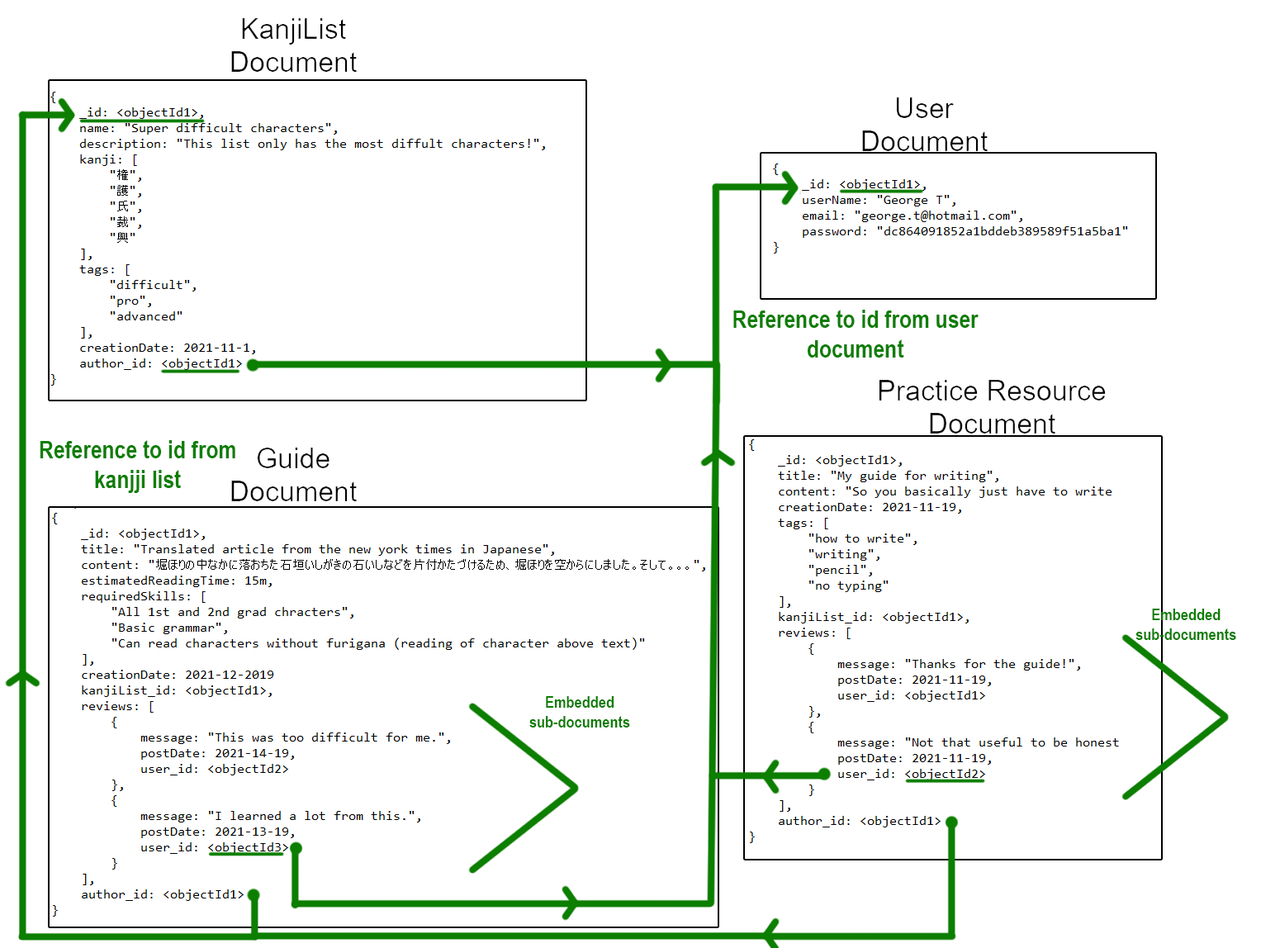
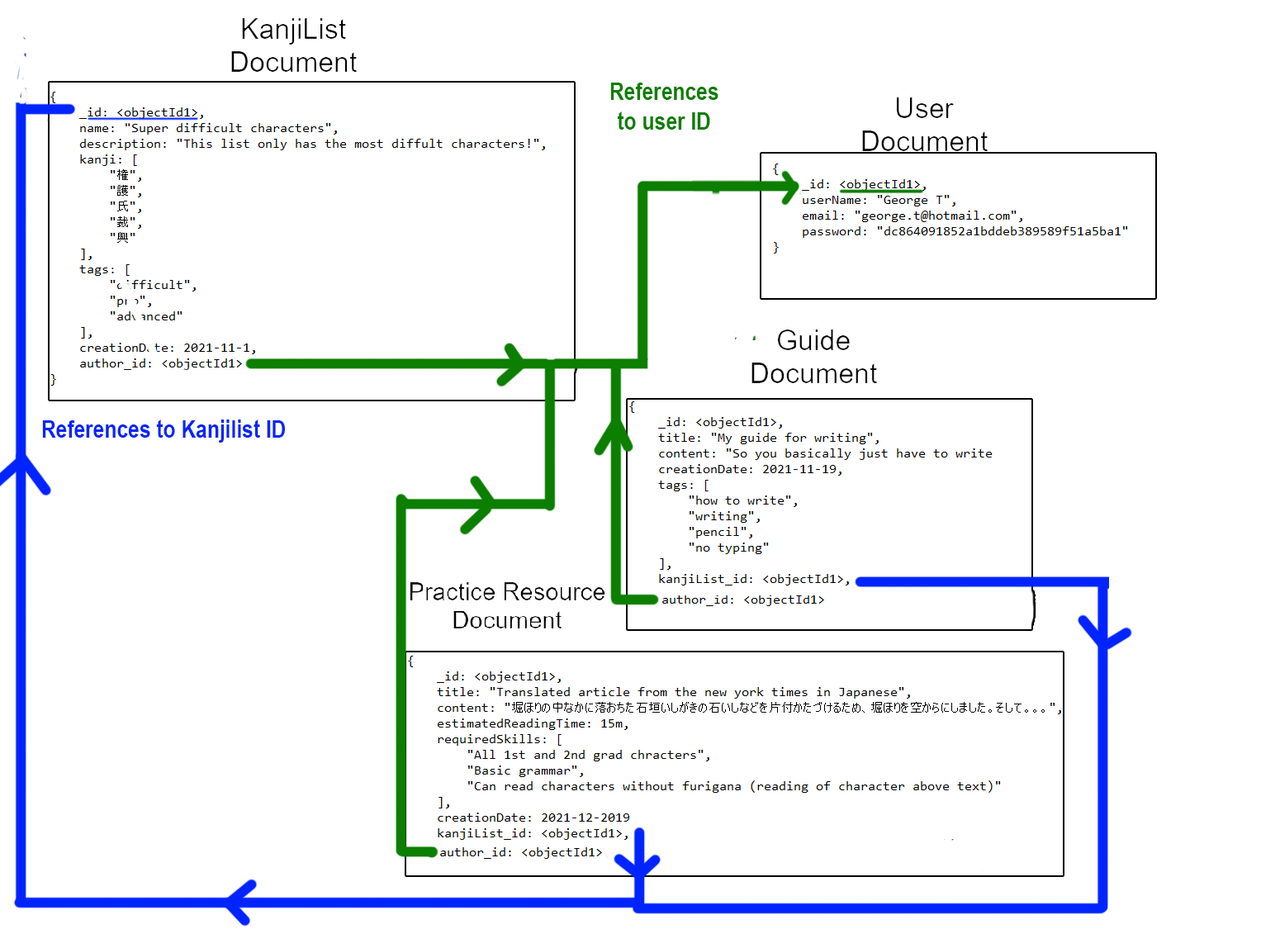
cleanup

diff --git a/src/app/services/guide.service.ts b/src/app/services/guide.service.ts
@@ -7,209 +7,9 @@ import { Guide } from '../models/guide'
   providedIn: 'root'
 })
 export class GuideService {
-  private guides: Guide[]
   baseUrl: string = 'https://mykanjilist-backend.herokuapp.com/api'
   constructor(private http: HttpClient) {
-    this.guides = [
-      {
-        id: 1,
-        title: 'How to learn kanji',
-        content: "var text = @\"" +
-          "I spent the first year of my Japanese studies lackadaisically studying kanji the way that everyone told me to study kanji: write each character a zillion times until it sticks in your brain. And, yeah, that was a huge disaster. So, after a year of studying, I knew a pretty solid smattering of Japanese, but I only knew about 500 kanji, despite having studied the kanji a lot." +
-          "" +
-          "You might be thinking that 500 kanji is a pretty solid amount, but with kanji it’s kind of an all-or-nothing deal. Either you know them or you don’t. Knowing only the most common kanji is certainly better than nothing, but if you can’t read all the common-use characters, you’re still illiterate. And being illiterate sucks." +
-          "" +
-          "After that year of studying Japanese without knowing the kanji, I quit studying Japanese completely. I didn’t study Japanese at all for about a year after that. I left Japan and just resigned myself to failure. I thought I can’t do this. It’s not possible for me." +
-          "" +
-          "Then, about a year after that, I decided to try studying with a new system. Basically, I used a very rudimentary version of the system that I will walk you through in this book. It wasn’t nearly as fine-tuned at that time, but I still managed to get drastically different results." +
-          "" +
-          "I started over, and I learned all 2,136 of the Jōyō Kanji in about 90 days. Not bad, right? But let’s round up and say 100 days." +
-          "" +
-          "100 days." +
-          "" +
-          "It’s hard to put time into perspective when studying a language. I think that maybe this is why so many of us get discouraged and quit studying somewhere along the line. We expect to learn everything overnight. When we google “how to learn Japanese” or “how to learn kanji” or “how to master Spanish,” we always add words like fast, easily, in 3 months, whatever. I called my last e-book “How to Learn Japanese in 1 Year.” But the thing is, time frames are absolutely meaningless. And I think that searching for accelerated methods for learning languages, though potentially beneficial, is often nothing more than a lack of commitment." +
-          "" +
-          "I mean, I get it. I’m human, too. I love instant gratification. Modern-day society has conditioned me to expect it everywhere I go. But there is so much more satisfaction in achieving something that you really have to work for. And I think that that’s the type of mindset that is conducive to making great achievements—not just in language-learning, but in life in general. Yes, we should take the fastest route to our destination. However, the fastest route may still take quite a long time, and that’s okay." +
-          "" +
-          "What I’m trying to say is that 100 days is both a very long time and a very short time." +
-          "" +
-          "100 days is a long time, because we’re talking about 100 days in a row. Stop and actually think about where you were about 3 months ago. Between then and now, how many times did you go to work? How many times did you talk on the phone? How many minutes or hours did you spend watching TV shows, playing video games, reading books, looking at Facebook, hanging out with your friends? How often did you feel tired? How often did you feel like you really, really, really didn’t want to go to work? Because we are talking about studying the kanji for at least one hour every single one of those days. That’s a long time!" +
-          "" +
-          "On the other hand, if you take a step back, 100 days is nothing. I started studying Japanese over 1,000 days ago. If I had spent my first 100 days learning all of the kanji in the method described in this book, then I would be much better at the language today. If I had followed all of the advice in this guide, I would be able to destroy my current level of Japanese. Looking back, I see so much wasted effort. So much wasted time. But, whatever. Live and learn… and share what you’ve learned, yeah?" +
-          "" +
-          "So in my guide we’re shooting for about 100 days. Specifically, we’re going to try to learn all of the 2,136 Joyo Kanji in 97 days. However, you don’t need to strictly follow the schedules and advice in this guide. Go at your own pace. Decide what you like, what works for you. There are people that like to take the approach that I took: a painful 100-day intensive kanji study session. But if that doesn’t work for you, then don’t do it." +
-          "" +
-          "Do 10 new kanji a day and learn all of them in about 210 days or so." +
-          "" +
-          "Or do 5 new kanji a day and learn them in 420 days. That’s only a little bit over a year. And 5 characters per day isn’t too stressful. And if you miss a few days studying new kanji, it’s not a big deal (because the study system allows for that)." +
-          "" +
-          "Maybe you’re thinking, over 400 days?! Forget it! I know that feeling. The thing is, though, that time is going to pass. 400 days will come and go, and at the end of them, you will either (A) know the kanji, or (B) not know the kanji. There is no gray area here. It is that simple. A or B. Your choice." +
-          "\";",
-        tags: ['girls', 'reading', 'names'],
-        creationDate: new Date("2020-01-16"),
-      },
-      {
-        id: 2,
-        title: 'How to learn girl characters for names',
-        content: "Jinmeiyō kanji (人名用漢字, Japanese pronunciation: [dʑimmeːjoːkaꜜɲdʑi], lit. Chinese characters for use in personal names) are a set of 863 Chinese characters known as \"name kanji\" in English. They are a supplementary list of characters that can legally be used in registered personal names in Japan, despite not being in the official list of \"commonly used characters\" (jōyō kanji). \"Jinmeiyō kanji\" is sometimes used to refer to the characters in both the jinmeiyō and jōyō lists.[citation needed]" +
-          "" +
-          "A ministerial decree of 1946 limited the number of officially sanctioned kanji for public use to the 1,850 tōyō kanji. Only kanji on this list were acceptable as registered names, despite the fact that the list excluded many kanji frequently used in names up to that point. However, on May 25, 1951, the cabinet extended the set of characters usable in names by specifying the first 90 jinmeiyō kanji." +
-          "" +
-          "Over the years, the Minister of Justice has increased the number of name kanji, and has a plan for further addition in response to requests from parents. As of April 30, 2009, there were 985 jinmeiyō kanji, but this number was reduced to 861 in late 2010 when 129 jinmeiyō characters were transferred to the jōyō kanji list, and 5 characters were transferred from the jōyō kanji list to jinmeiyō characters. In 2015 and 2017, 2 kanji in total were added to the jinmeiyō list, making the total number 863." +
-          "" +
-          "In Japan, name kanji are taught at the junior-high level.[citation needed]",
-        tags: ['numbers', '1st grade', 'easy'],
-        creationDate: new Date("2020-01-16"),
-      },
-      {
-        id: 3,
-        title: 'How to learn boy names',
-        content: "Jinmeiyō kanji (人名用漢字, Japanese pronunciation: [dʑimmeːjoːkaꜜɲdʑi], lit. Chinese characters for use in personal names) are a set of 863 Chinese characters known as \"name kanji\" in English. They are a supplementary list of characters that can legally be used in registered personal names in Japan, despite not being in the official list of \"commonly used characters\" (jōyō kanji). \"Jinmeiyō kanji\" is sometimes used to refer to the characters in both the jinmeiyō and jōyō lists.[citation needed]" +
-          "" +
-          "A ministerial decree of 1946 limited the number of officially sanctioned kanji for public use to the 1,850 tōyō kanji. Only kanji on this list were acceptable as registered names, despite the fact that the list excluded many kanji frequently used in names up to that point. However, on May 25, 1951, the cabinet extended the set of characters usable in names by specifying the first 90 jinmeiyō kanji." +
-          "" +
-          "Over the years, the Minister of Justice has increased the number of name kanji, and has a plan for further addition in response to requests from parents. As of April 30, 2009, there were 985 jinmeiyō kanji, but this number was reduced to 861 in late 2010 when 129 jinmeiyō characters were transferred to the jōyō kanji list, and 5 characters were transferred from the jōyō kanji list to jinmeiyō characters. In 2015 and 2017, 2 kanji in total were added to the jinmeiyō list, making the total number 863." +
-          "" +
-          "In Japan, name kanji are taught at the junior-high level.[citation needed]",
-        tags: ['names', 'boy', 'guys', 'reading'],
-        creationDate: new Date("2020-01-16"),
-      },
-      {
-        id: 4,
-        title: 'Guide for reading menus',
-        content: "If you're a traveler coming to Japan I'm sure eating some great Japanese food is high on everyone's agenda.  By the very virtue of you traveling to Japan it says that you are somewhat adventurous. So you'll be walking around different cities and popping your head into many restaurants. At least you should be in my opinion. There is no reason to play it safe and find the nearest McDonalds. You will undoubtedly find restaurants where the menu is in Kanji or Japanese only and the owners will not speak your language. I admit that would be a difficult but not insurmountable problem. You could turn around and walk out or you could see what everyone else is eating and point to their dishes. Or maybe the menu has pictures. Or you could point to the plastic food plates outside the restaurant for your order.  Some of the best meals and adventures are found by just walking in and see what happens. Sometimes you strike out, but more often than not, you'll end up having a great experience." +
-          "" +
-          "Most people coming to Japan make an effort to learn some Japanese basics. The study list incudes a little bit of the spoken and written language and perhaps some Japanese customs.  A huge task that most don't deal with though is learning those Chinese looking characters called Kanji. With the right approach you can learn many kanji in a reasonable amount of time. But for most, you just want to get by, and perhaps learn some of the most common or most important kanji that you might encounter. " +
-          "" +
-          "From a food perspective, I may be able to shed some light on the kanji problem. You want to know if the menu says raw or cooked. You'd like to know if you're ordering chicken, beef, pork, eggs, or vegetables. You'd like to know if it's a soup, salad, and if it is baked or boiled. Most menus will have this information so it's up to you to figure it out or bring a good interpreter along." +
-          "" +
-          "I have developed a list of what I call Key Food Kanji. Today's installment is all about meat." +
-          "" +
-          "For this first series, we will start with beef, pork, and chicken related dishes. Most restaurants will serve something in this category. Unless you have somehow stumbled into a tofu restaurant." +
-          "" +
-          "肉　\"niku\" meat (beef, pork, chicken)" +
-          "牛　\"gyu\" beef " +
-          "豚 \"buta\"pork" +
-          "牛肉 \"gyuniku\" [ぎゅうにく] beef" +
-          "牛丼 \"gyudon\" [ぎゅうどん] rice covered with beef and vegetables" +
-          "和牛 [わぎゅう] Wagyu beef, Japanese beef" +
-          "近江牛 [おうみぎゅう, おうみうし] Omi beef" +
-          "米沢牛 [よねざわぎゅう] Yonezawa beef" +
-          "松阪牛 [まつさかうし] Matsusaka beef" +
-          "神戸肉 [こうべにく] Kobe beef" +
-          "カルビ \"kalbi\" Korean-style beef ribs" +
-          "すき焼き, すき焼,  [すきやき, スキヤキ] sukiyaki, thin slices of beef, cooked with various vegetables in a table-top cast-iron pan" +
-          "タンtongue of beef, pork, etc." +
-          "豚肉 \"butaniku\" [ぶたにく, とんにく] pork" +
-          "豚めし, 豚飯  \"butameshi\" [ぶためし] pork with rice" +
-          "豚丼  \"butadon\" [ぶたどん, とんどん] rice covered with pork and vegetables" +
-          "豚カツ \"tonkatsu\" [とんカツ] pork cutlet" +
-          "黒豚 \"kurobuta\" [くろぶた] Berkshire pig" +
-          "鶏 \"tori\" [にわとり, とり] (domestic) chicken, chicken (meat)" +
-          "焼き鳥, 焼鳥 [やきとり] yakitori, chicken pieces (or sometimes beef or pork offal) grilled on a skewer" +
-          "若鳥, 若鶏 \"wakadori\" [わかどり] chick, chicken" +
-          "チキン, チッキンchicken" +
-          "笹身 \"sasami\" [ささみ] high-quality chicken breast meat" +
-          "手羽先 \"tebasaki\" [てばさき] (tip section of) chicken wing, second segment of chicken wing" +
-          "鴨, 鳧 \"kamo\" [,カモ] duck, easy mark, sucker, sitting duck" +
-          "餃子 \"gyoza\" [ギョーザ, ギョウザ, チャオズ] pot sticker, gyoza, crescent-shaped pan-fried dumplings stuffed with minced pork and vegetables" +
-          "So you can see the patterns. Beef, pork, and chicken. You probably also recognized Kobe beef and saw a few other types listed. In Japan Kobe is just one choice of many possible quality beef choice. Some argue that Matsusaka beef is actually better. Others say the Omi is king.  If you're in a major city you can find restaurants that serve it and you can find it in some of the larger food basements or \"depachika.\" But that may be another post in itself." +
-          "" +
-          "In the next installment we'll cover menu basics like raw, baked, deep fried, vegetables, etc. and some key restaurant phrases",
-        tags: ['food', 'menus', 'restaurant'],
-        creationDate: new Date("2020-01-16"),
-      },
-      {
-        id: 5,
-        title: 'Learn Kanji Calligraphy',
-        content: "Many Japanese learners have a love/hate relationship with kanji. There are too many readings, they look too similar to other characters or are just really hard to write neatly—especially on government forms. One way to improve your kanji writing, as well as learn a new skill or perhaps even find a surprising hidden talent of your own, is to try shodo (Japanese calligraphy)." +
-          "" +
-          "What is shodo?" +
-          "Shodo, or “the way of writing,” quite literally means calligraphy in Japanese. Originally brought to Japan from China between the 1st and 5th centuries, it developed over the years into a unique system of writing that includes the hiragana and katakana of today. There’s even a Japanese Calligraphy Association where members can take part in and share the joys of one of Japan’s oldest art forms." +
-          "" +
-          "In terms of modern calligraphy, there are three main styles of writing. The easiest is called kaisho, or block style lettering. Next is gyosho, or semi-cursive and, finally,    sosho, or the cursive style. Sosho is the most difficult to master, taking casual calligraphers years, sometimes decades to fully master." +
-          "" +
-          "For those interested in a more in-depth history of this writing system, I strongly encourage you to check out the entry on it at Beyond Calligraphy. If you have six minutes to spare, this video from the University of Houston System Coursera course explains a bit of the history and development of different Japanese scripts up to the Edo era." +
-          "" +
-          "The tools you need" +
-          "As shodo is a traditional art form, it has this image of being an incredibly difficult or expensive hobby to have — and it is, if you’ve been at it for several years and have advanced to a high level of skill." +
-          "" +
-          "Learning Japanese Calligraphy" +
-          "You can find mini calligraphy sets like these in traditional shops in the Asakusa and Ueno areas." +
-          "" +
-          "The four most basic tools are bunbo shihom, also known as the Four Treasures of the Study, are: fude (brush), washi (Japanese-style paper), sumi (ink) and suzuri (ink stone)." +
-          "" +
-          "Learning Japanese Calligraphy" +
-          "" +
-          "Brushes come in various sizes and in prices ranging from ¥100 to tens of thousands of yen. Cheaper brushes have plastic handles and bristles made from synthetic materials, while others can be wood, bamboo or horn based, with bristles made from goat, sheep, horse, boar or deer hair. When getting started with calligraphy, most people prefer to start with a medium or large brush, for ease of use and in order to get the finer details of the characters written correctly." +
-          "" +
-          "Learning Japanese Calligraphy" +
-          "" +
-          "If you’d rather begin using something less daunting than a full brush, a fudepen (brush pen) is your best option. It’s a brush with ink inside the handle that you have to “pop” open and squeeze in order to get flowing. The inks are usually available in black, light grey and red, but you can also find water color fudepens in a rainbow of shades." +
-          "" +
-          "Learning Japanese Calligraphy" +
-          "" +
-          "Washi paper is readily available in art stores, crafting stores, home centers, larger book stores and even in some supermarkets. You can find a variety of colors, sizes, and textures, although traditional calligraphy calls for long, relatively smooth sheets of white or off-white paper." +
-          "" +
-          "Learning Japanese Calligraphy" +
-          "" +
-          "For practical purposes, beginners should stick with hanshi, or practice paper, as it’s much cheaper than washi. These starts from ¥100 a pack versus ¥1,400 plus for 20 sheets of washi." +
-          "" +
-          "Learning Japanese Calligraphy" +
-          "" +
-          "Inksticks are just like brushes. They can range in price and quality from ¥150 to well into the ¥70,000-plus range for antique or particularly rare types of ink. They’re made from a hardened mixture of vegetable or pine soot and shaped into a stick. The age, location of the ingredients and their overall quality are what determines the price. Mass produced ones are fine for beginners, but more advanced calligraphers prefer those made between 50-100 years ago for their color, mixing consistency, and ink texture." +
-          "" +
-          "Learning Japanese Calligraphy" +
-          "" +
-          "Another option for beginners is bokuju, or bottled ink. This liquid ink is readily available, comes in a variety of colors and is just as reliable as an inkstick when you’re starting out." +
-          "" +
-          "Learning Japanese Calligraphy" +
-          "Plastic inkwells are often reversible, with one side for liquid ink, and the other with space to rub an inkstick." +
-          "" +
-          "If you use an inkstick, you will need an inkstone or inkwell too. You can easily find plastic or ceramic ones online or in stores, but traditional ones are made from stone and start at the ¥8,000 mark and go up into the millions of yen range. They are beautiful, handmade works of art in the majority of cases and collectors will tell you that without one, you will never see the true depth of beauty a particular inkstick can have." +
-          "" +
-          "Learning Japanese Calligraphy" +
-          "" +
-          "A bunchin (paperweight) to hold your paper in place, a shitajiki (undercloth ) to prevent the ink from bleeding through and a fudeoki (brush rest) to keep your brush from leaving ink stains on any surfaces are just as important. Don’t forget the mizusara (water dish), either — that’s where you keep the water used to wet the inkstone." +
-          "" +
-          "Getting your tools together" +
-          "While those are all key pieces for any well practiced calligrapher, if you’re just getting started, you don7t have to spend more than ¥5,000 to be completely satisfied with your tools. The vast majority of the tools a beginner needs can be found at your nearest supermarket or even ¥100 store. There are three options available to beginners:" +
-          "" +
-          "The straightforward approach: A fudepen and any kind of paper, even a notebook will do." +
-          "The school-style approach: A brush, a bottle of ink, hanshi practice paper, a small bowl or soy sauce dish and some newspaper or old flyers." +
-          "The water writing approach: A kit that includes a pen to be filled with water and special paper to write on." +
-          "If you’re just getting started on your own, those are the only items you really need — and one of them is free if you save up your junk mail. You can substitute regular printer paper for practice paper if you like, but be aware that the ink will likely bleed through whatever paper you decide to use. This is why you’ll need those old newspapers and flyers. The small bowl or soy sauce dish is to pour the ink into — remember not to use it for food afterwards." +
-          "" +
-          "Please also note: if you open but don’t consistently use your bottle of ink, it will expire and will smell horrible when it does. If you can, try to buy the smallest bottle available when you first get started to save yourself from learning this the hard way." +
-          "" +
-          "Learning Japanese Calligraphy" +
-          "" +
-          "If you would rather skip the hassle of spilled ink, save on paper and aren’t fussed about keeping your first attempts to put on the fridge, the water writing approach is your best option. These kits come with everything you need (except the water). All you have to do is open them and brush your heart out over the pre-printed guidelines." +
-          "" +
-          "To buy your calligraphy supplies online, you should check out the water calligraphy kits on Amazon Japan (here and here), or from the art supply store Sekaido (Japanese only). If you really want to go all out and buy the best items possible, try Pigment Tokyo, and Kyukyodo." +
-          "" +
-          "How do I get started?" +
-          "That depends on which approach you’ve chosen. If you’re using a water calligraphy kit, simply follow the instructions provided in the booklet and you’re good to go." +
-          "" +
-          "For a fudepen kit, follow the instructions on the pen’s packaging to get the ink flowing. Just remember not to squeeze it too hard or you will overload the brush with ink and your first attempts at writing will look more like Rorschach tests." +
-          "" +
-          "Liquid ink or an inkstick and stone kits will involve a little more prep work, first. Before you do any calligraphy whatsoever, you’ll need to soak your brush to remove the starch that was put in it to hold its shape. Soak the bristles in water to remove the starch, then let it dry thoroughly with paper towels. Put down a few layers of flyers. newsprint or a cloth, then set your paper over that (with a paperweight if you’ve chosen to use one). For liquid ink, pour it into a small container of some kind, or for an inkstone, pour a few drops of water into the inkstone, then carefully rub the inkstick against that spot until you have some ink." +
-          "" +
-          "Never let the inkstick sit in water, or rinse it — it well melt and you’ll have wasted your ink. Likewise wash your brushes immediately after use in lukewarm water, until the water runs clear, then dry them with a paper towel and stand them upright in a container. Some ink may have stained the bristles, but that only adds to their charm over time. If they came with a plastic cap, don’t try to force it back over the bristles, as this can damage them." +
-          "" +
-          "And then what? Well, you’ve got a lot of options. If you can already read Japanese or have studied it, then simply crack open a kanji textbook and follow the instructions for writing each character. Or if you have a favorite character, you can look it up on the KanjiVG website and it will provide the stroke order for you. There are also of course books available, too, such as this one for fudepens specifically or textbooks that teach all the basic steps in Japanese." +
-          "" +
-          "If you’d rather not use a book though, then both YouTube and Instagram are treasure troves of free beginner calligraphy courses. Three of the best channels on YouTube (in no particular order) are Japanese Calligrapher Takumi, 新宿書道教室 Japanese Calligraphy SHODO Lesson and Gohitsu Shodo Kai. They have playlists specifically for beginners, including tips on how to take care of your calligraphy tools." +
-          "" +
-          "On Instagram there are plenty of posts showing people’s calligraphy work, but if you’re trying to use it as a study guide, then Shioh.Shodo and Bunkai_Shodo are the best accounts to follow. Both also have their own websites as well." +
-          "" +
-          "Learning Japanese Calligraphy" +
-          "" +
-          "Now that you have the tools and the best online instructors available, all you need is some practice and a little luck. If you’re serious about making Japanese calligraphy a hobby and are slightly superstitious about it, then paying a visit to Kameido Tenjin Shrine in Tokyo’s Koto ward is a good idea. There, once you’ve prayed at the shrine itself, you can purchase omamori to help boost your calligraphy prowess, as well as specially stamped calligraphy brushes in small, medium and large sizes.",
-        tags: ['caligraphy', 'writing', 'hand-writing'],
-        creationDate: new Date("2020-01-16"),
-      },
-    ]
+    
   }
 
 
@@ -240,6 +40,6 @@ export class GuideService {
   }
 
   getNewId() {
-    return this.guides[this.guides.length - 1].id + 1
+    return 0
   }
 }

diff --git a/src/app/services/kanji.list.service.ts b/src/app/services/kanji.list.service.ts
@@ -7,69 +7,15 @@ import { KanjiList } from '../models/kanji.list'
   providedIn: 'root'
 })
 export class KanjiListService {
-  kanjiLists: KanjiList[]
+ 
   baseUrl: string = 'https://mykanjilist-backend.herokuapp.com/api'
   httpOptions: any = {
     'Content-Type': 'application/json',
   }
 
   constructor(private http: HttpClient) {
-    this.kanjiLists = [
-      {
-        id: 1,
-        name: 'numbers',
-        description: 'The characters for the numbers:\n 1-10 100, 1000, 10.000 and 100.000.000',
-        kanji: ['一', '二', '三', '四', '五', '六', '七', '八', '九', '十', '百', '千', '万', '億'],
-        tags: ['numbers', '1st grade'],
-        creationDate: new Date("2019-01-16")
-      },
-      {
-        id: 2,
-        name: 'senses',
-        description: 'The characters for your five senses',
-        kanji: ['耳', '見', '触', '香', '味'],
-        tags: ['tastes', 'different grades', 'common'],
-        creationDate: new Date("2021-02-20")
-      },
-      {
-        id: 3,
-        name: 'foods',
-        description: 'Some food ingredients',
-        kanji: ['饂', '魚', '肉', '菜'],
-        tags: ['food', 'ingredients', 'meat'],
-        creationDate: new Date("2018-04-25")
-      },
-      {
-        id: 4,
-        name: 'boy name characters',
-        description: 'Common characters in boy names',
-        kanji: ['大', '隼', '清', '地', '男', '正'],
-        tags: ['boy', 'jinmeiyō', 'jinmeiyou', '人名用漢字'],
-        creationDate: new Date("2012-10-02")
-      },
-      {
-        id: 5,
-        name: 'girl name characters',
-        description: 'Common characters in girl names',
-        kanji: ['子', '愛', '明', '華', '女'],
-        tags: ['girl', 'jinmeiyō', 'jinmeiyou', '人名用漢字'],
-        creationDate: new Date("2012-10-03")
-      },
-      {
-        id: 6,
-        name: 'XL list',
-        description: 'A big list with the same character for demonstration purposes',
-        kanji: ['上', '重', '重', '重', '重', '重', '重', '重', '重', '重', '重', '重', '重', '重',
-          '重', '重', '重', '重', '重', '重', '重', '重', '重', '重', '重', '重', '重', '重', '重',
-          '重', '重', '重', '重', '重', '重', '重', '重', '重', '重', '重', '重', '重', '重', '重',
-          '重', '重', '重', '重', '重', '重', '重', '重', '重', '重', '重', '重', '重', '重', '重',],
-        tags: ['girl', 'jinmeiyō', 'jinmeiyou', '人名用漢字'],
-        creationDate: new Date("2012-10-03")
-      }
-    ]
+    
   }
-
-
 
   postItem(item: KanjiList):Observable<KanjiList> {
     return this.http.post<any>(`${this.baseUrl}/kanjilist/`, item)
@@ -96,6 +42,6 @@ export class KanjiListService {
   }
 
   getNewId() {
-    return this.kanjiLists[this.kanjiLists.length - 1].id + 1
+    return 0
   }
 }

diff --git a/src/app/pages/about/about.component.html b/src/app/pages/about/about.component.html
@@ -47,12 +47,11 @@
         characters.</p>
 
     <h2 class="header-font pt-2">Data model</h2>
-    <p>The data model consists of the entities: KanjiList, Guide, Practice Resource, Reviews and User. As seen in the
+    <p>The data model consists of the entities: KanjiList, Guide, Practice Resource and User. As seen in the
         image below
         Guide and Practice Resource both reference the id of a kanjilist. It's better to reference to the entity rather
         than to embed it as a sub-document, this is simply because different Guides and Practice Resources can use the
-        same kanji list. This prevents a lot of duplicated data. Guides and Practice Resources both have the subdocument
-        reviews. It's better to embed these because a review can only belong to one Practice Resource or Guide.</p>
+        same kanji list. This prevents a lot of duplicated data.</p>
     <h6 class="header-font">Entities</h6>
     <img class="pb-3 img-fluid img-max" src="../../../assets/images/entities.png" alt="image">
     <hr />
